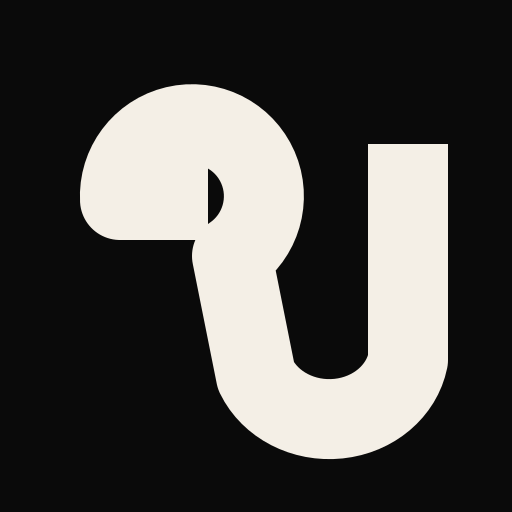
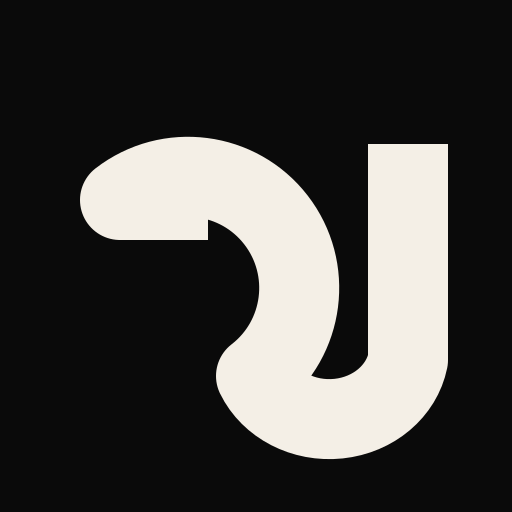
fix(brand): smooth the mark's left edge into one stroke

Changed region(s): [[0.375, 0.3125, 0.6875, 0.75], [0.1562, 0.1562, 0.5938, 0.375]]

diff --git a/src/components/brand/BrandMark.tsx b/src/components/brand/BrandMark.tsx
@@ -12,7 +12,7 @@
 // brand-mark change is a one-file edit, not a repo-wide find-and-replace.
 export const BRAND_MARK_VIEWBOX = "0 0 128 128";
 export const BRAND_MARK_PATHS = [
-    "M 48 50 H 28 A 20 20 0 1 1 56 70 C 58 80 62 90 68 98 A 22 18 0 0 0 100 92 V 38",
+    "M 48 50 H 28 A 20 20 0 0 1 68 98 A 22 18 0 0 0 100 92 V 38",
 ] as const;
 export const BRAND_MARK_STROKE_WIDTH = 16;
 
